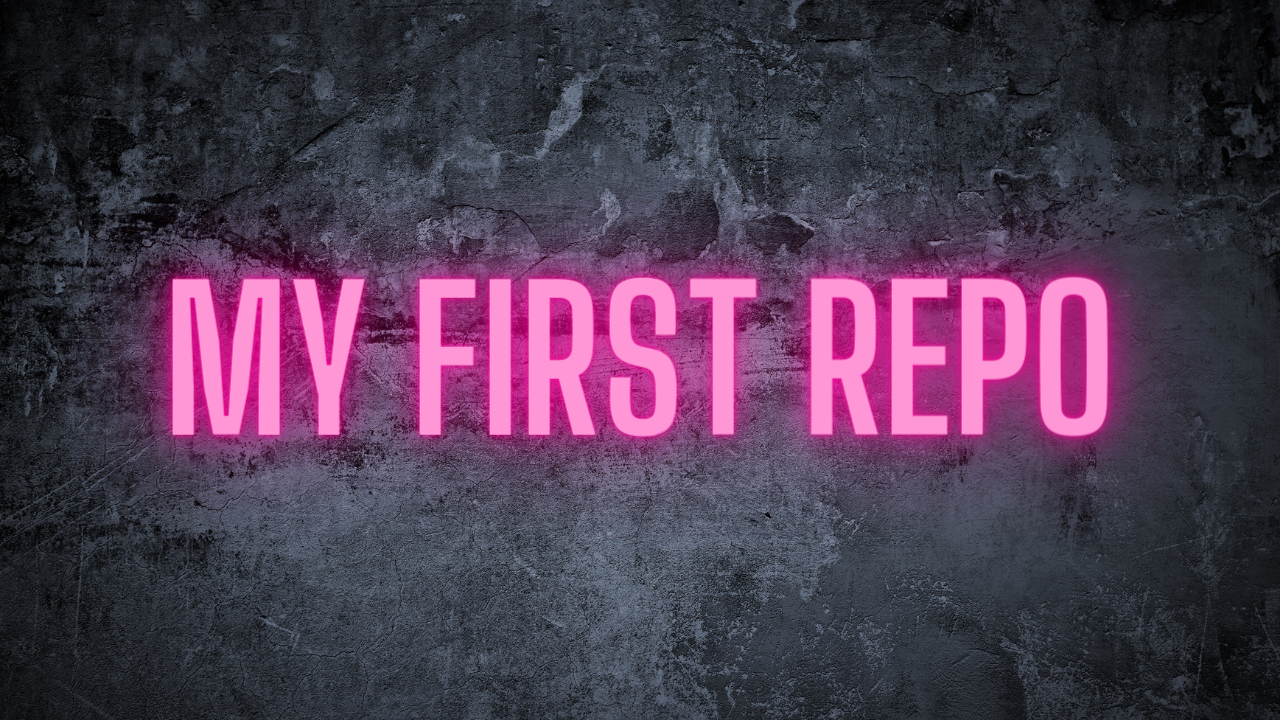
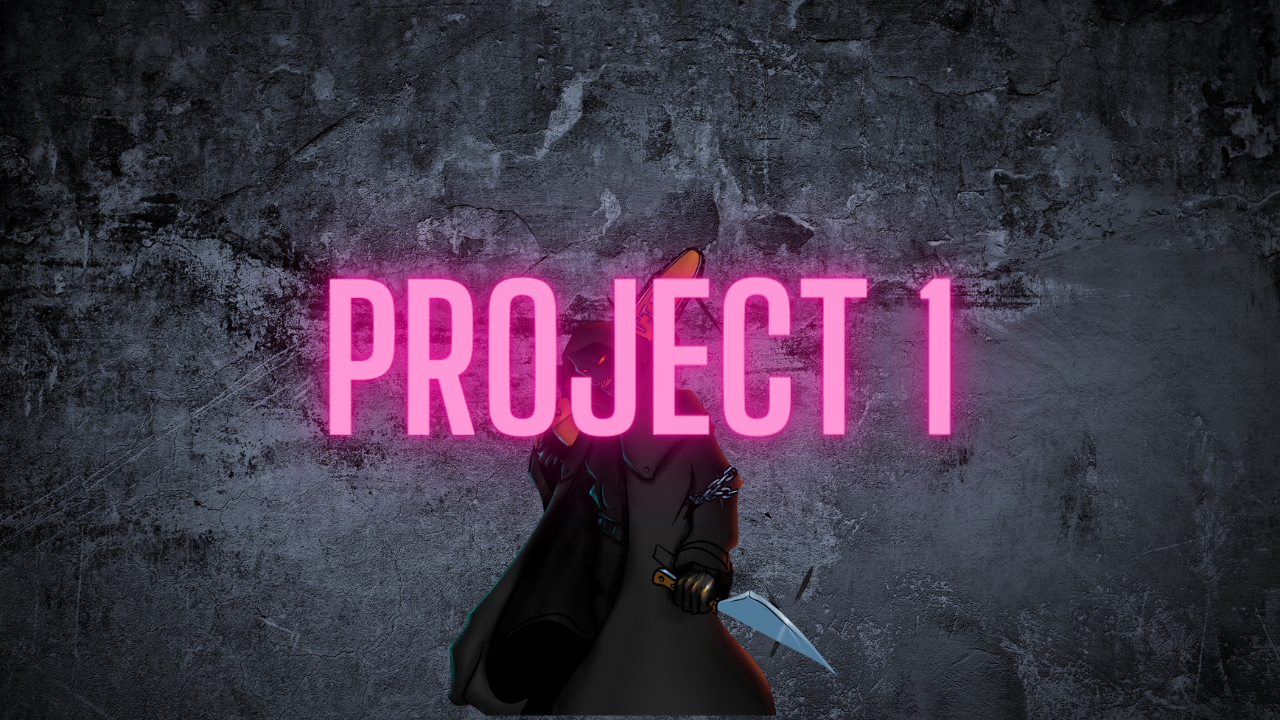
added my first project and updated header font

Changed region(s): [[0.0938, 0.3361, 0.9062, 1.0], [0.625, 0.7944, 0.6562, 0.825]]

diff --git a/index.html b/index.html
@@ -33,7 +33,7 @@ No matter what field I find myself in I
 always strive to continue to learn and expand my skillset.</p>
 </div>
 
-<a href="https://github.com/MarcoSaverino/MSaverino-Challenge-1"><div class="First-Project"></div></a>
+<a href="https://marcosaverino.github.io/BloodTale_AMurderMystery/"><div class="First-Project"></div></a>
 </div>   
 </div>
 <body>

diff --git a/assets/css/style.css b/assets/css/style.css
@@ -277,3 +277,7 @@ footer {
     text-align: center;
   
   }
+
+  a {
+    color:  rgb(251, 251, 251);
+  }
